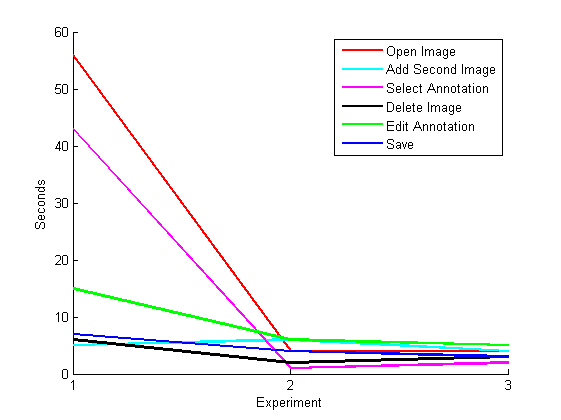
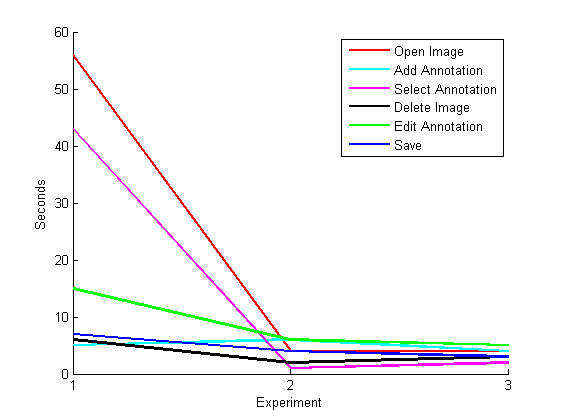
added another plot and some notes in conclusion and analysis

Changed region(s): [[0.6061, 0.0929, 0.9091, 0.3714], [0.6061, 0.0929, 0.6364, 0.1238]]

diff --git a/conclusion.tex b/conclusion.tex
@@ -1,5 +1,18 @@
 \section{Conclusion}
 
-In conclusion, the participant in our tests seemed happy with the program after learning how to use it.  However, looking at the interface implementation from a more professional point of view it is clear that there has been some mistakes made.  For one thing, there shouldn’t be a 50 second plus learning curve on opening an image file.  This is one of the simplest operations a desktop application can make, and this confusion was entirely avoidable had the designers taken the time to implement the standard main menu, File sub-menu pattern found in so many applications.  Having ignored that convention, the programmers placed a vital user interface element at the far right of the window.  It is well known in design, and has be born out by research carried out into eye movement tracking, that a person concentrates their gaze to the top and left of an application, and so by placing the list of annotations on the far right they should have considered that it may be more difficult for the user to spot and consequently re-thought that placement.  Finally, it is typical in every day computer use that clicking on a UI component will either highlight or select it.  By separating the place where you select an annotation from the place where it is drawn you are disregarding this paradigm, and ultimately this can only lead to confusion on the users part.
+In conclusion, the participant in our tests seemed happy with the program after learning how to use it.  However, looking at the interface implementation from a more professional point of view it is clear that some mistakes has been made.  For one thing, there should not be a 50 second plus learning curve on opening an image file.  This is one of the simplest operations a desktop application can make, and this confusion was entirely avoidable had the designers taken the time to implement the standard main menu, File sub-menu pattern found in so many applications.
 
-Since the application is so simple it gets away with having a bit of a quirky layout, at least as far as our test subject was concerned.  However, in terms of following HCI principles, this application breaches a few too many and so we feel it would be better to redo the design in a more conventional manner so that users may be less confused while using it.
+Having ignored that convention, the programmers placed a vital user interface element at the far right of the window. It is well known in design, and has be born out by research carried out into eye movement tracking, that a person concentrates their gaze to the top and left of an application, and so by placing the list of annotations on the far right they should have considered that it may be more difficult for the user to spot and consequently re-thought that placement.  
+
+Finally, it is typical in every day computer use that clicking on a UI component will either highlight or select it.  By separating the place where you select an annotation from the place where it is drawn you are disregarding this paradigm, and ultimately this can only lead to confusion on the users part.
+
+Design deficiencies are clearly demonstrated in Figure \ref{fig:ave_rate} when the time to complete a task for the first time is plotted against user rating of how easy the task was.
+
+\begin{figure}[t]
+\centering
+\includegraphics[width=9cm]{average_rating.png}
+\caption{time takes for completing a task for the first time plotted against user rating of how easy it was to accomplish the task, lower number indicates task was easier. }
+\label{fig:ave_rate}
+\end{figure}
+
+Since the application is so simple it gets away with having a bit of a quirky layout, at least as far as our test subject was concerned.  However, in terms of following HCI principles, this application breaches a few too many and so we feel it would be better to redo the design in a more conventional manner so that users may be less confused while using it.  

diff --git a/analysis.tex b/analysis.tex
@@ -4,4 +4,6 @@ Overall the participant in our tests found the program to be easy to use after a
 
 It took the user 56 seconds in total to load an image file, and most of that time was spent hunting the interface for the open command.  The creators of the application labelled their button load, which is arguably a less common term than open, but the main problem that the user encountered was that the vast majority of desktop applications they have used have a main menu with a file sub-menu and an open menu item - this program does not.  Also, because the action buttons seem fairly arbitrarily placed around the canvas, this will necessarily add to the confusion of first-time users.
 
-The other task that the user found particularly difficult was the selecting of an annotation.  This took them 45 seconds to complete, and in terms of poor interface design there were two main issues.  The first thing that the user tried to do was select the edge of the polygon to highlight it.  This is a fairly natural action since it is usually the case that a UI object can be selected by clicking on it; however, in this case the canvas interpreted the click incorrectly as the users wish to create another polygon.  This is poor interface design since the designers of the program should have imagined that the user would try to select an annotation in this way and either implement it or communicate to the user that the edges of the polygon are not click-able: perhaps by using a broken line as opposed to a continuous one.  After the user recovered from their error they realised that the selection of an annotation must be accomplished somewhere else on the window and this illustrates the second issue with this feature.  It took some time for the participant of the test to realise there was a list of their annotations to the far right of the window.  User interface components are typically placed to the top and the left of the screen so by placing a piece of information on the far right it is less likely that a persons eye will travel that way as often.  This is fairly well known in interface design, and so the creators of this product should have given more thought to the placement and implementation of this feature.
+The other task that the user found particularly difficult was the selecting of an annotation.  This took them 45 seconds to complete, and in terms of poor interface design there were two main issues.  The first thing that the user tried to do was select the edge of the polygon to highlight it.  This is a fairly natural action since it is usually the case that a UI object can be selected by clicking on it; however, in this case the canvas interpreted the click incorrectly as the users wish to create another polygon.  This is poor interface design since the designers of the program should have imagined that the user would try to select an annotation in this way and either implement it or communicate to the user that the edges of the polygon are not click-able: perhaps by using a broken line as opposed to a continuous one. 
+
+After the user recovered from their error they realised that the selection of an annotation must be accomplished somewhere else on the window and this illustrates the second issue with this feature. It took some time for the participant of the test to realise there was a list of their annotations to the far right of the window.  User interface components are typically placed to the top and the left of the screen so by placing a piece of information on the far right it is less likely that a persons eye will travel that way as often.  This is fairly well known in interface design, and so the creators of this product should have given more thought to the placement and implementation of this feature.

diff --git a/matlab/script.m b/matlab/script.m
@@ -4,15 +4,14 @@ close all;
 
 load('obs_sec.mat')
 load('obs_click.mat')
+load('sat.mat')
 
 hold on
 plot(obs_sec(:,1),'r','LineWidth',2,'DisplayName','Open Image')
-
-plot(obs_sec(:,3),'c','LineWidth',2,'DisplayName','Add Second Image')
+plot(obs_sec(:,3),'c','LineWidth',2,'DisplayName','Add Annotation')
 plot(obs_sec(:,4),'m','LineWidth',2,'DisplayName','Select Annotation')
 plot(obs_sec(:,5),'k','LineWidth',2,'DisplayName','Delete Image')
 plot(obs_sec(:,7),'g','LineWidth',2,'DisplayName','Edit Annotation')
-%plot(obs_sec(:,8),'g')
 plot(obs_sec(:,9),'b','LineWidth',2,'DisplayName','Save')
 set(get(gca,'XLabel'),'String','Experiment')
 set(get(gca,'YLabel'),'String','Seconds')
@@ -22,7 +21,23 @@ hold on
 plot(obs_click(:,1),'--r','LineWidth',2,'DisplayName','Open Image')
 plot(obs_click(:,3),'--c','LineWidth',2,'DisplayName','Add Second Image')
 plot(obs_click(:,4),'--m','LineWidth',2,'DisplayName','Select Annotation')
-%plot(obs_click(:,5),'--k','LineWidth',2)
 plot(obs_click(:,7),'--g','LineWidth',2,'DisplayName','Edit Annotation')
-%plot(obs_sec(:,8),'g')
 plot(obs_click(:,9),'--b','LineWidth',2,'DisplayName','Save')
+figure
+hold on
+ave=mean(obs_sec);
+ave_sat=[ave; sat]
+set(get(gca,'XLabel'),'String','Time(s) to Complete a Task')
+set(get(gca,'YLabel'),'String','User Rating')
+set(gca,'XLim',[0 60])
+set(gca,'YLim',[0 5])
+set(gca,'XTick',[0:10:60])
+set(gca,'YTick',[0:1:5])
+%set(gca,'Color',[0.7,0.7,0.7])
+size=6
+plot(obs_sec(1,1),ave_sat(2,1),'*r','MarkerSize', size,'LineWidth', size/2,'DisplayName','Open Image');
+plot(obs_sec(1,3),ave_sat(2,3),'dc','MarkerSize', size,'LineWidth', size/2,'DisplayName','Add Annotation');
+plot(obs_sec(1,4),ave_sat(2,4),'sm','MarkerSize', size,'LineWidth', size/2,'DisplayName','Select Annotation');
+plot(obs_sec(1,5),ave_sat(2,5),'hk','MarkerSize', size,'LineWidth', size/2,'DisplayName','Delete Image');
+plot(obs_sec(1,7),ave_sat(2,7),'xg','MarkerSize', size,'LineWidth', size/2,'DisplayName','Edit Annotation');
+plot(obs_sec(1,9),ave_sat(2,9),'vb','MarkerSize', size,'LineWidth', size/2,'DisplayName','Save');

diff --git a/results.tex b/results.tex
@@ -17,7 +17,7 @@ Duplicating an annotation was the seventh task and was completed in two clicks o
 
 The final task asked of the user was to save the annotated image to a file.  This took seven seconds, two clicks, and they stated it was extremely easy, again giving this a score of one.  This experiment was then repeated for a second image and then again for the first image.  All measurements recorded for these subsequent operations can be seen in Appendix \ref{Appendix}.
 
-In conclusion, The analysis given above can be summarized in Figure \ref{fig:plot}. Line segment with large slops indicate that user performance has change dramatically from one experiment to the other.
+In conclusion, The analysis given above can be summarized in Figure \ref{fig:plot}. Line segments with large slops indicate that user performance has change dramatically from one experiment to the other.
 
 \begin{figure}[t]
 \centering
